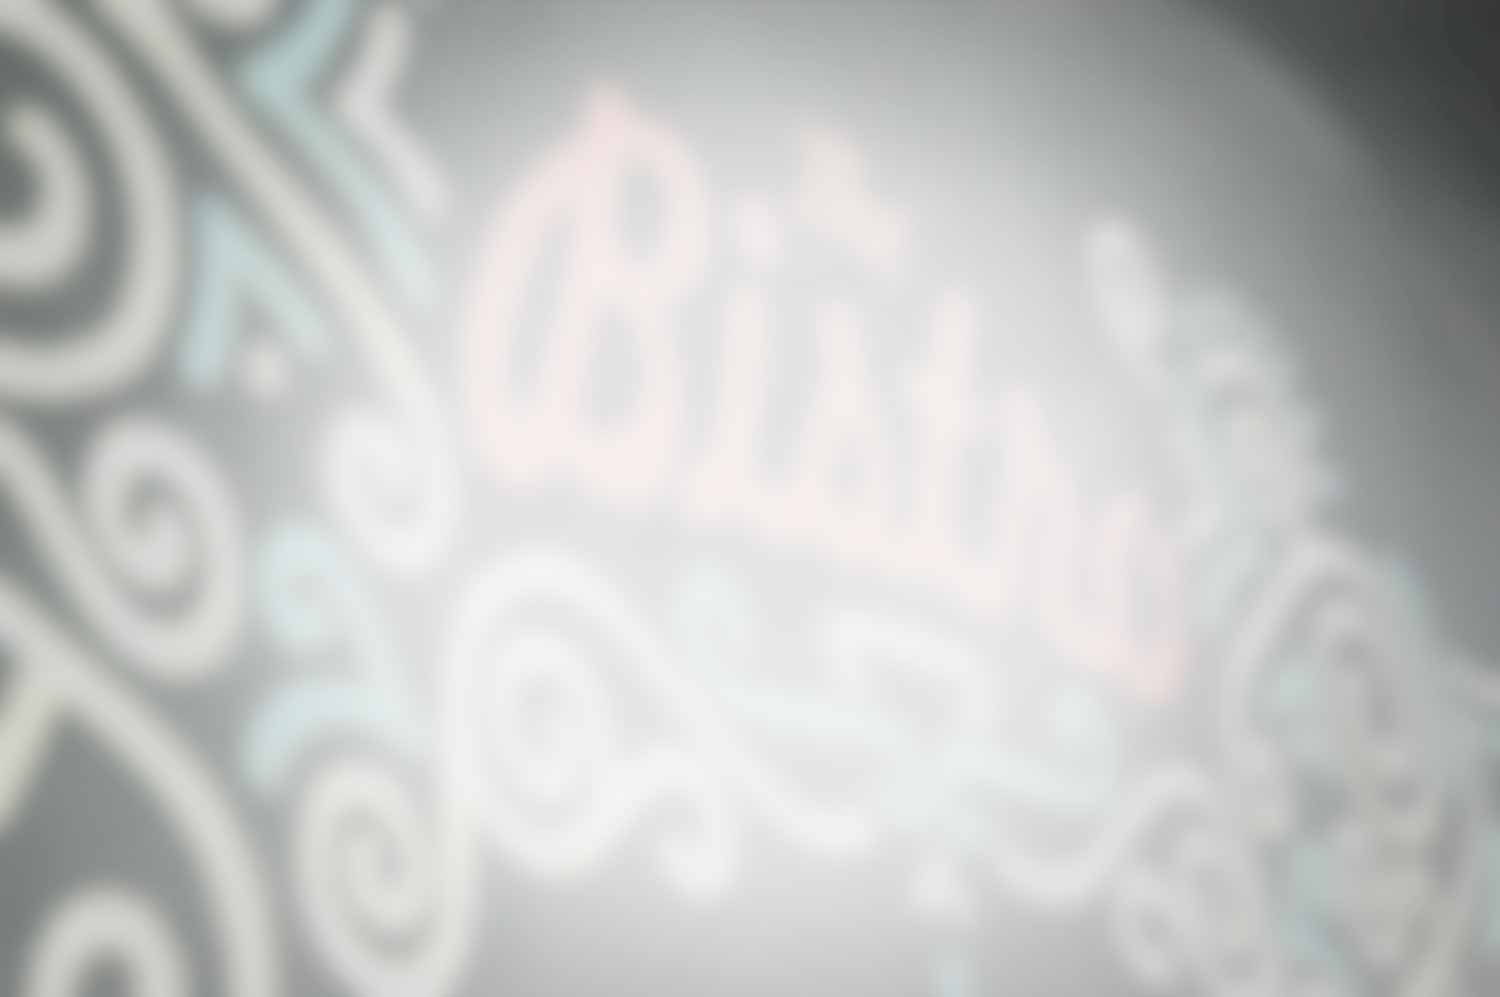
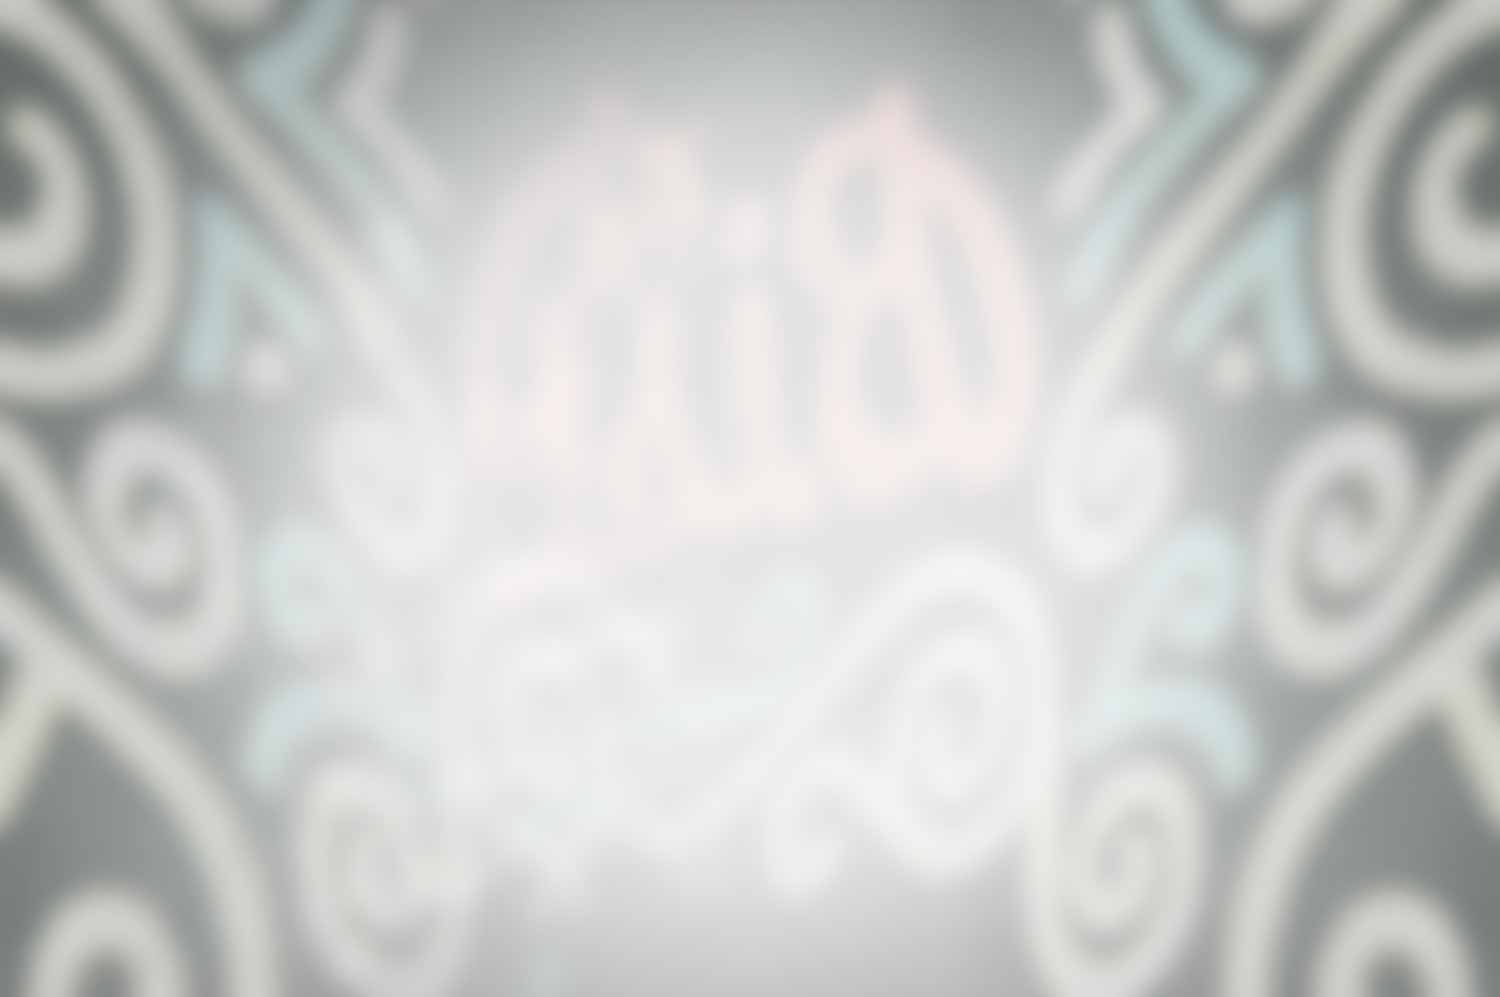
Center background on marketing page.

Changed region(s): [[0.6747, 0.0, 1.0, 1.0], [0.552, 0.0933, 0.6747, 0.2798]]

diff --git a/review_app/static/css/review.css b/review_app/static/css/review.css
@@ -17,7 +17,7 @@ body {
 }
 
 .jumbotron {
-	background:url( '/static/images/home-bg.jpg' ) 0 -150px #aaa;
+	background:url( '/static/images/home-bg.jpg' ) center -150px #aaa;
 	padding-top:40px;
 	padding-bottom:0;
 	position:fixed;
